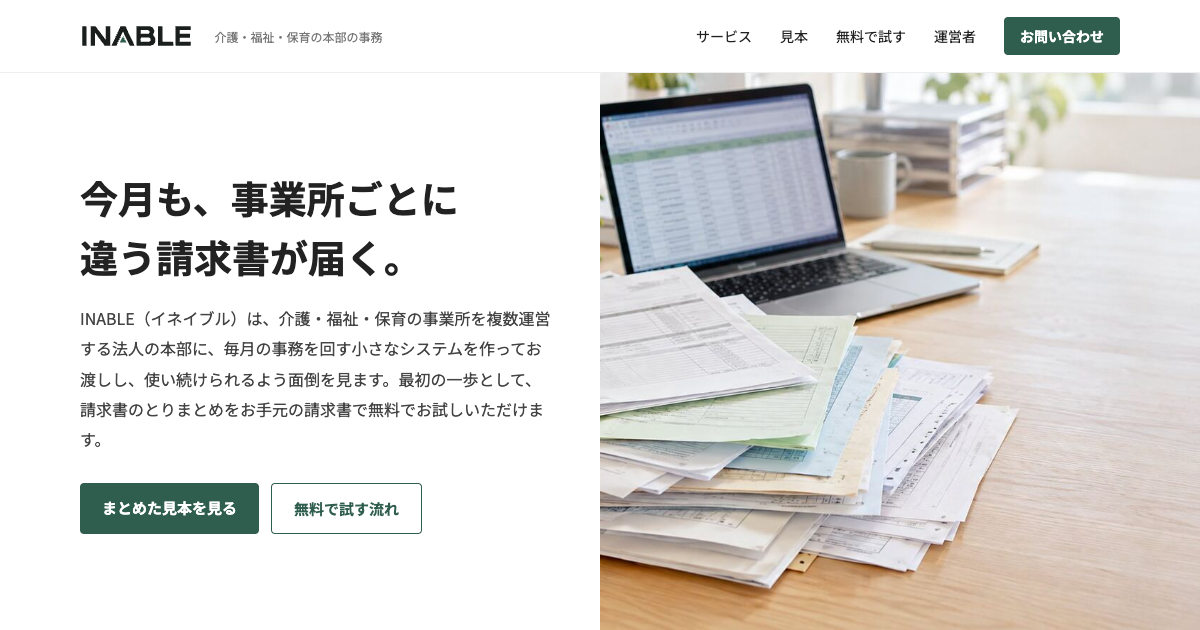
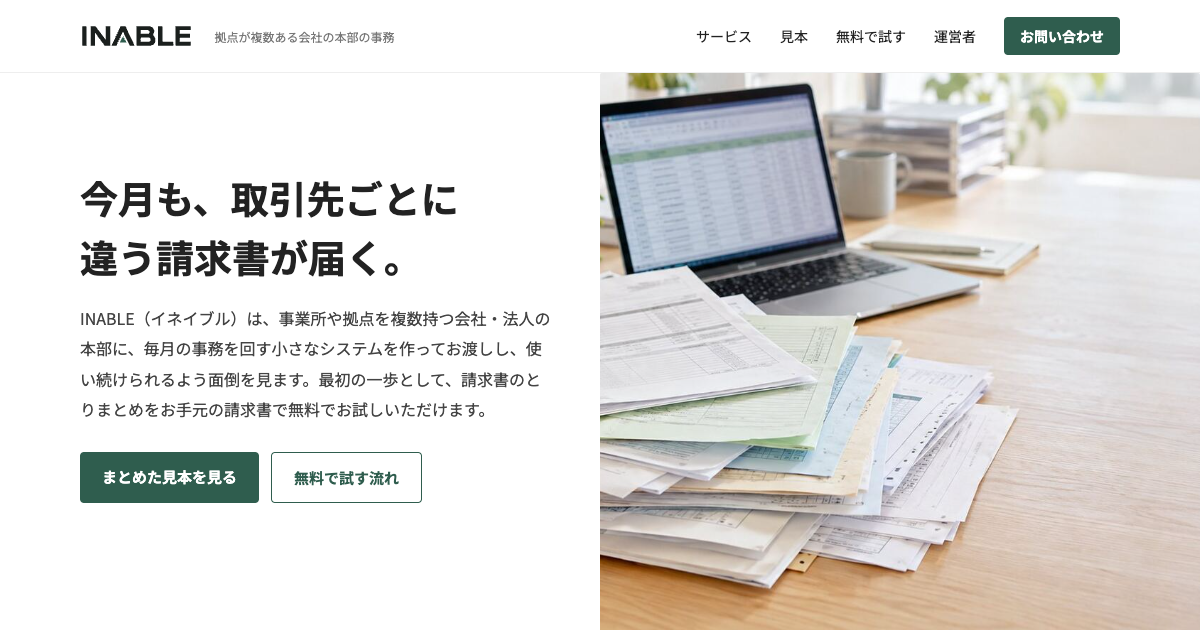
INABLE サイトを更新（x-inajiro business/inable/site から生成）

diff --git a/index.html b/index.html
@@ -1,16 +1,16 @@
 <!doctype html>
 <html lang="ja"><head><meta charset="utf-8"><meta name="viewport" content="width=device-width,initial-scale=1">
-<title>INABLE（イネイブル）｜介護・福祉・保育の本部の事務を、回るかたちに</title><link rel="icon" href="assets/logo/mark.svg"><meta name="description" content="介護・福祉・保育の事業所を複数運営する法人の本部に、毎月の事務を回す小さなシステムを作ってお渡しし、使い続けられるよう面倒を見ます。最初の一歩は、請求書のとりまとめの無料のお試しから。">
-<meta property="og:type" content="website"><meta property="og:title" content="INABLE（イネイブル）｜介護・福祉・保育の本部の事務を、回るかたちに"><meta property="og:description" content="介護・福祉・保育の事業所を複数運営する法人の本部に、毎月の事務を回す小さなシステムを作ってお渡しし、使い続けられるよう面倒を見ます。最初の一歩は、請求書のとりまとめの無料のお試しから。">
+<title>INABLE（イネイブル）｜拠点が複数ある会社の本部の事務を、回るかたちに</title><link rel="icon" href="assets/logo/mark.svg"><meta name="description" content="事業所や拠点を複数持つ会社・法人の本部に、毎月の事務を回す小さなシステムを作ってお渡しし、使い続けられるよう面倒を見ます。最初の一歩は、請求書のとりまとめの無料のお試しから。">
+<meta property="og:type" content="website"><meta property="og:title" content="INABLE（イネイブル）｜拠点が複数ある会社の本部の事務を、回るかたちに"><meta property="og:description" content="事業所や拠点を複数持つ会社・法人の本部に、毎月の事務を回す小さなシステムを作ってお渡しし、使い続けられるよう面倒を見ます。最初の一歩は、請求書のとりまとめの無料のお試しから。">
 <meta property="og:image" content="https://iineineno03k.github.io/inable/assets/og.png"><meta property="og:url" content="https://iineineno03k.github.io/inable/"><meta name="twitter:card" content="summary_large_image">
 <link rel="preconnect" href="https://fonts.googleapis.com"><link rel="preconnect" href="https://fonts.gstatic.com" crossorigin>
 <link href="https://fonts.googleapis.com/css2?family=Noto+Sans+JP:wght@400;700&display=swap" rel="stylesheet">
 <link rel="stylesheet" href="style.css"></head><body>
-<header><div class="wrap"><a class="logo" href="./"><img src="assets/logo/logo.svg" alt="INABLE" height="24"><small>介護・福祉・保育の本部の事務</small></a>
+<header><div class="wrap"><a class="logo" href="./"><img src="assets/logo/logo.svg" alt="INABLE" height="24"><small>拠点が複数ある会社の本部の事務</small></a>
 <nav><a href="service.html">サービス</a><a href="sample.html">見本</a><a href="trial.html">無料で試す</a><a href="about.html">運営者</a><a class="cta-btn" href="contact.html">お問い合わせ</a></nav></div></header>
 <section class="hero">
- <div class="copy"><div class="voice">今月も、事業所ごとに<br>違う請求書が届く。</div>
-  <div class="sub">INABLE（イネイブル）は、介護・福祉・保育の事業所を複数運営する法人の本部に、毎月の事務を回す小さなシステムを作ってお渡しし、使い続けられるよう面倒を見ます。最初の一歩として、請求書のとりまとめをお手元の請求書で無料でお試しいただけます。</div>
+ <div class="copy"><div class="voice">今月も、取引先ごとに<br>違う請求書が届く。</div>
+  <div class="sub">INABLE（イネイブル）は、事業所や拠点を複数持つ会社・法人の本部に、毎月の事務を回す小さなシステムを作ってお渡しし、使い続けられるよう面倒を見ます。最初の一歩として、請求書のとりまとめをお手元の請求書で無料でお試しいただけます。</div>
   <div class="btns"><a class="btn" href="sample.html">まとめた見本を見る</a><a class="btn ghost" href="trial.html">無料で試す流れ</a></div></div>
  <div class="img" style="background-image:url(assets/generated/hero-desk-v1.jpg)"></div>
 </section>
@@ -42,16 +42,16 @@
   <div class="step"><h3 class="h3">2. まとめる</h3><div class="p">お預かりした請求書を、上の見本と同じExcelにまとめます。</div></div>
   <div class="step"><h3 class="h3">3. 結果をお見せする</h3><div class="p">正しくまとまったところと、確認が必要になった理由をご報告します。続けるかどうかは、それを見てから決めてください。</div></div>
  </div>
- <p class="cost">お試しに費用はかかりません。続ける場合の費用は、内容をうかがってお見積りし、ご了承いただくまで発生しません。</p><p class="p" style="margin-top:8px">受け渡しの方法・保管・削除のタイミングは、先に法人さまの決まりをうかがい、対応できる方法で合意してからお預かりします。秘密保持の取り決めが必要でしたら、内容を確認したうえで、お預かりする前に結びます。お願いするのは、お預かりの前に受け渡しの方法と削除の時期を一緒に決めていただくことと、請求書の送付、結果の確認です。</p><p class="small">紙をスキャンした請求書は、別にご相談ください。</p>
+ <p class="cost">お試しに費用はかかりません。続ける場合の費用は、内容をうかがってお見積りし、ご了承いただくまで発生しません。</p><p class="p" style="margin-top:8px">受け渡しの方法・保管・削除のタイミングは、先に社内の決まりをうかがい、対応できる方法で合意してからお預かりします。秘密保持の取り決めが必要でしたら、内容を確認したうえで、お預かりする前に結びます。お願いするのは、お預かりの前に受け渡しの方法と削除の時期を一緒に決めていただくことと、請求書の送付、結果の確認です。</p><p class="small">紙をスキャンした請求書は、別にご相談ください。</p>
 </section>
 <section class="tint"><div class="wrap sec">
  <h2 class="h2">INABLEとのお付き合い</h2>
  <div class="grid3">
   <div class="step"><h3 class="h3">1. 無料で試す</h3><div class="p">請求書のとりまとめなど、1つの作業をお手元の書類で試し、結果をお見せします。</div></div>
-  <div class="step"><h3 class="h3">2. 本部に合わせて作る</h3><div class="p">続ける場合は、法人さまの決まりや流れに合わせて、毎月使えるかたちに仕上げます。お見積りにご了承いただいてから始めます。</div></div>
+  <div class="step"><h3 class="h3">2. 本部に合わせて作る</h3><div class="p">続ける場合は、社内の決まりや流れに合わせて、毎月使えるかたちに仕上げます。お見積りにご了承いただいてから始めます。</div></div>
   <div class="step"><h3 class="h3">3. 使い続けられるよう見守る</h3><div class="p">書式が変わった、事業所が増えた、といったときの手直しも、必要に応じて月々の形でご提案します。</div></div>
  </div>
- <p class="small" style="margin-top:20px">お相手の目安：事業所が3〜20か所ほどで、社内にシステムの担当がいない法人。</p>
+ <p class="small" style="margin-top:20px">お相手の目安：事業所・拠点が3〜20か所ほどで、社内にシステムの担当がいない会社・法人。介護や保育の事業所、工場や営業所、店舗や支店など、業種は問いません。</p>
 </div></section>
 <section class="wrap sec grid2" style="grid-template-columns:minmax(0,360px) minmax(0,1fr)">
  <img class="portrait-img" src="assets/portrait.jpg" alt="稲田 裕次郎">
@@ -62,7 +62,7 @@
 <section class="endcta"><div class="wrap"><h2>本部の事務のこと、お気軽にご相談ください</h2>
 <p>見本についてのご質問だけでも構いません。上長の方へは、このページのURLをそのままお送りください。</p>
 <div class="btns center"><a class="btn" href="https://docs.google.com/forms/d/e/1FAIpQLSfqlaHdNqRFhAeLvqePx_TkyAJFKcp7_Hvy0_Dt4lpC_d6Yyw/viewform" target="_blank" rel="noopener">フォームで問い合わせる</a><a class="btn ghost light" href="sample.html">見本を見る</a></div></div></section>
-<footer><div class="wrap"><div><a class="logo" href="./"><img src="assets/logo/logo-white.svg" alt="INABLE" height="22"></a><p>介護・福祉・保育の事業所を複数運営する法人の本部に、毎月の事務を回す小さなシステムを作ってお渡しし、使い続けられるよう面倒を見ます。</p></div>
+<footer><div class="wrap"><div><a class="logo" href="./"><img src="assets/logo/logo-white.svg" alt="INABLE" height="22"></a><p>事業所や拠点を複数持つ会社・法人の本部に、毎月の事務を回す小さなシステムを作ってお渡しし、使い続けられるよう面倒を見ます。</p></div>
 <nav><a href="service.html">サービス</a><a href="sample.html">見本</a><a href="trial.html">無料で試す</a><a href="about.html">運営者</a><a href="contact.html">お問い合わせ</a></nav></div>
 <div class="wrap copy">© INABLE　inajiro1717inada@gmail.com</div></footer>
 

diff --git a/trial.html b/trial.html
@@ -1,12 +1,12 @@
 <!doctype html>
 <html lang="ja"><head><meta charset="utf-8"><meta name="viewport" content="width=device-width,initial-scale=1">
-<title>無料で試す｜INABLE（イネイブル）</title><link rel="icon" href="assets/logo/mark.svg"><meta name="description" content="御社の請求書20枚までで、どこまで正しくまとまるかを無料でお見せします。費用はお見積りにご了承いただくまで発生しません。">
-<meta property="og:type" content="website"><meta property="og:title" content="無料で試す｜INABLE（イネイブル）"><meta property="og:description" content="御社の請求書20枚までで、どこまで正しくまとまるかを無料でお見せします。費用はお見積りにご了承いただくまで発生しません。">
+<title>無料で試す｜INABLE（イネイブル）</title><link rel="icon" href="assets/logo/mark.svg"><meta name="description" content="お手元の請求書20枚までで、どこまで正しくまとまるかを無料でお見せします。費用はお見積りにご了承いただくまで発生しません。">
+<meta property="og:type" content="website"><meta property="og:title" content="無料で試す｜INABLE（イネイブル）"><meta property="og:description" content="お手元の請求書20枚までで、どこまで正しくまとまるかを無料でお見せします。費用はお見積りにご了承いただくまで発生しません。">
 <meta property="og:image" content="https://iineineno03k.github.io/inable/assets/og.png"><meta property="og:url" content="https://iineineno03k.github.io/inable/trial.html"><meta name="twitter:card" content="summary_large_image">
 <link rel="preconnect" href="https://fonts.googleapis.com"><link rel="preconnect" href="https://fonts.gstatic.com" crossorigin>
 <link href="https://fonts.googleapis.com/css2?family=Noto+Sans+JP:wght@400;700&display=swap" rel="stylesheet">
 <link rel="stylesheet" href="style.css"></head><body>
-<header><div class="wrap"><a class="logo" href="./"><img src="assets/logo/logo.svg" alt="INABLE" height="24"><small>介護・福祉・保育の本部の事務</small></a>
+<header><div class="wrap"><a class="logo" href="./"><img src="assets/logo/logo.svg" alt="INABLE" height="24"><small>拠点が複数ある会社の本部の事務</small></a>
 <nav><a href="service.html">サービス</a><a href="sample.html">見本</a><a href="trial.html">無料で試す</a><a href="about.html">運営者</a><a class="cta-btn" href="contact.html">お問い合わせ</a></nav></div></header>
 <section class="pagehead"><div class="wrap"><div class="crumb">トップ › 無料で試す</div><h1>まずは、お手元の請求書で無料で試せます</h1>
 <p>実際に届いている請求書で、どこまで正しくまとまるかをお見せします。続けるかどうかは、結果をご覧になってから決めてください。</p></div></section>
@@ -21,7 +21,7 @@
 </div></section>
 <section class="wrap sec grid2">
  <div><h2 class="h2">請求書のお預かりについて</h2>
-  <div class="p">受け渡しの方法・保管・削除のタイミングは、先に法人さまの決まりをうかがい、対応できる方法で合意してからお預かりします。合わない場合はお預かりしません。秘密保持の取り決めが必要でしたら、内容を確認したうえで、お預かりする前に結びます。</div></div>
+  <div class="p">受け渡しの方法・保管・削除のタイミングは、先に社内の決まりをうかがい、対応できる方法で合意してからお預かりします。合わない場合はお預かりしません。秘密保持の取り決めが必要でしたら、内容を確認したうえで、お預かりする前に結びます。</div></div>
  <div class="img" style="min-height:280px;background-image:url(assets/generated/step-handover-v1.jpg)"></div>
 </section>
 <section class="wrap sec" style="padding-top:0">
@@ -35,7 +35,7 @@
 <section class="endcta"><div class="wrap"><h2>本部の事務のこと、お気軽にご相談ください</h2>
 <p>見本についてのご質問だけでも構いません。上長の方へは、このページのURLをそのままお送りください。</p>
 <div class="btns center"><a class="btn" href="https://docs.google.com/forms/d/e/1FAIpQLSfqlaHdNqRFhAeLvqePx_TkyAJFKcp7_Hvy0_Dt4lpC_d6Yyw/viewform" target="_blank" rel="noopener">フォームで問い合わせる</a><a class="btn ghost light" href="sample.html">見本を見る</a></div></div></section>
-<footer><div class="wrap"><div><a class="logo" href="./"><img src="assets/logo/logo-white.svg" alt="INABLE" height="22"></a><p>介護・福祉・保育の事業所を複数運営する法人の本部に、毎月の事務を回す小さなシステムを作ってお渡しし、使い続けられるよう面倒を見ます。</p></div>
+<footer><div class="wrap"><div><a class="logo" href="./"><img src="assets/logo/logo-white.svg" alt="INABLE" height="22"></a><p>事業所や拠点を複数持つ会社・法人の本部に、毎月の事務を回す小さなシステムを作ってお渡しし、使い続けられるよう面倒を見ます。</p></div>
 <nav><a href="service.html">サービス</a><a href="sample.html">見本</a><a href="trial.html">無料で試す</a><a href="about.html">運営者</a><a href="contact.html">お問い合わせ</a></nav></div>
 <div class="wrap copy">© INABLE　inajiro1717inada@gmail.com</div></footer>
 

diff --git a/service.html b/service.html
@@ -6,12 +6,12 @@
 <link rel="preconnect" href="https://fonts.googleapis.com"><link rel="preconnect" href="https://fonts.gstatic.com" crossorigin>
 <link href="https://fonts.googleapis.com/css2?family=Noto+Sans+JP:wght@400;700&display=swap" rel="stylesheet">
 <link rel="stylesheet" href="style.css"></head><body>
-<header><div class="wrap"><a class="logo" href="./"><img src="assets/logo/logo.svg" alt="INABLE" height="24"><small>介護・福祉・保育の本部の事務</small></a>
+<header><div class="wrap"><a class="logo" href="./"><img src="assets/logo/logo.svg" alt="INABLE" height="24"><small>拠点が複数ある会社の本部の事務</small></a>
 <nav><a href="service.html">サービス</a><a href="sample.html">見本</a><a href="trial.html">無料で試す</a><a href="about.html">運営者</a><a class="cta-btn" href="contact.html">お問い合わせ</a></nav></div></header>
 <section class="pagehead"><div class="wrap"><div class="crumb">トップ › サービス</div><h1>本部の毎月の事務を、回るかたちに</h1>
-<p>介護・福祉・保育の事業所を複数運営する法人の本部で、毎月くり返している事務を、小さなシステムにしてお渡しします。お渡ししたあとも、使い続けられるよう面倒を見ます。</p></div></section>
+<p>事業所や拠点を複数持つ会社・法人の本部で、毎月くり返している事務を、小さなシステムにしてお渡しします。お渡ししたあとも、使い続けられるよう面倒を見ます。</p></div></section>
 <section class="wrap sec grid2" style="align-items:start">
- <div><h2 class="h2">お手伝いできる法人</h2><ul class="list"><li>事業所が3〜20か所ほど</li><li>各事業所から本部へ、書類や数字が毎月集まる</li><li>社内にシステムの担当がいない</li></ul></div>
+ <div><h2 class="h2">お手伝いできる会社・法人</h2><ul class="list"><li>事業所・拠点が3〜20か所ほど</li><li>各拠点から本部へ、書類や数字が毎月集まる</li><li>社内にシステムの担当がいない</li></ul><p class="small">たとえば、介護・保育の事業所、工場・営業所、建設・設備の支店、店舗を複数お持ちの会社・法人です。業種は問いません。</p></div>
  <div><h2 class="h2">ご相談できることの例</h2><ul class="list"><li>事業所ごとに届く請求書のとりまとめ（下でご紹介します）</li><li>各事業所から上がる報告や数字の集計</li><li>毎月同じ形で作っている一覧や資料づくり</li></ul><p class="small">まずはお話をうかがい、1つの作業を選んでお試しいただきます。</p></div>
 </section>
 <h2 class="band">最初の一歩：請求書のとりまとめ</h2>
@@ -43,7 +43,7 @@
 <section class="endcta"><div class="wrap"><h2>本部の事務のこと、お気軽にご相談ください</h2>
 <p>見本についてのご質問だけでも構いません。上長の方へは、このページのURLをそのままお送りください。</p>
 <div class="btns center"><a class="btn" href="https://docs.google.com/forms/d/e/1FAIpQLSfqlaHdNqRFhAeLvqePx_TkyAJFKcp7_Hvy0_Dt4lpC_d6Yyw/viewform" target="_blank" rel="noopener">フォームで問い合わせる</a><a class="btn ghost light" href="sample.html">見本を見る</a></div></div></section>
-<footer><div class="wrap"><div><a class="logo" href="./"><img src="assets/logo/logo-white.svg" alt="INABLE" height="22"></a><p>介護・福祉・保育の事業所を複数運営する法人の本部に、毎月の事務を回す小さなシステムを作ってお渡しし、使い続けられるよう面倒を見ます。</p></div>
+<footer><div class="wrap"><div><a class="logo" href="./"><img src="assets/logo/logo-white.svg" alt="INABLE" height="22"></a><p>事業所や拠点を複数持つ会社・法人の本部に、毎月の事務を回す小さなシステムを作ってお渡しし、使い続けられるよう面倒を見ます。</p></div>
 <nav><a href="service.html">サービス</a><a href="sample.html">見本</a><a href="trial.html">無料で試す</a><a href="about.html">運営者</a><a href="contact.html">お問い合わせ</a></nav></div>
 <div class="wrap copy">© INABLE　inajiro1717inada@gmail.com</div></footer>
 

diff --git a/contact.html b/contact.html
@@ -6,7 +6,7 @@
 <link rel="preconnect" href="https://fonts.googleapis.com"><link rel="preconnect" href="https://fonts.gstatic.com" crossorigin>
 <link href="https://fonts.googleapis.com/css2?family=Noto+Sans+JP:wght@400;700&display=swap" rel="stylesheet">
 <link rel="stylesheet" href="style.css"></head><body>
-<header><div class="wrap"><a class="logo" href="./"><img src="assets/logo/logo.svg" alt="INABLE" height="24"><small>介護・福祉・保育の本部の事務</small></a>
+<header><div class="wrap"><a class="logo" href="./"><img src="assets/logo/logo.svg" alt="INABLE" height="24"><small>拠点が複数ある会社の本部の事務</small></a>
 <nav><a href="service.html">サービス</a><a href="sample.html">見本</a><a href="trial.html">無料で試す</a><a href="about.html">運営者</a><a class="cta-btn" href="contact.html">お問い合わせ</a></nav></div></header>
 <section class="pagehead"><div class="wrap"><div class="crumb">トップ › お問い合わせ</div><h1>お問い合わせ</h1>
 <p>下のフォームからご連絡ください。1分ほどで送れます。見本についてのご質問だけでも構いません。</p></div></section>
@@ -17,12 +17,12 @@
  <div class="btns center"><button class="btn" onclick="const b=this;navigator.clipboard.writeText('inajiro1717inada@gmail.com').then(()=>{b.textContent='コピーしました'},()=>{b.textContent='コピーできませんでした。上のアドレスを選んでコピーしてください'})">アドレスをコピー</button></div>
 </section>
 <section class="tint"><div class="wrap sec grid2" style="align-items:start">
- <div><h2 class="h2">フォームでうかがうこと</h2><ul class="list"><li>ご用件（見本について／無料で試したい／話を聞いてみたい）</li><li>法人名・お名前・メールアドレス</li><li>事業所の数（わかれば）・ご質問</li></ul></div>
+ <div><h2 class="h2">フォームでうかがうこと</h2><ul class="list"><li>ご用件（見本について／無料で試したい／話を聞いてみたい）</li><li>会社名・法人名、お名前、メールアドレス</li><li>事業所・拠点の数（わかれば）・ご質問</li></ul></div>
  <div><h2 class="h2">お返事</h2><div class="p">内容を確認して、ご入力いただいたメールアドレスへお返事します。</div></div>
 </div></section>
 <section class="wrap sec"><div class="p" style="text-align:center">上長の方へ回していただく場合は、<a href="./" style="text-decoration:underline">トップページ</a>のURLをそのままお送りください。</div></section>
 
-<footer><div class="wrap"><div><a class="logo" href="./"><img src="assets/logo/logo-white.svg" alt="INABLE" height="22"></a><p>介護・福祉・保育の事業所を複数運営する法人の本部に、毎月の事務を回す小さなシステムを作ってお渡しし、使い続けられるよう面倒を見ます。</p></div>
+<footer><div class="wrap"><div><a class="logo" href="./"><img src="assets/logo/logo-white.svg" alt="INABLE" height="22"></a><p>事業所や拠点を複数持つ会社・法人の本部に、毎月の事務を回す小さなシステムを作ってお渡しし、使い続けられるよう面倒を見ます。</p></div>
 <nav><a href="service.html">サービス</a><a href="sample.html">見本</a><a href="trial.html">無料で試す</a><a href="about.html">運営者</a><a href="contact.html">お問い合わせ</a></nav></div>
 <div class="wrap copy">© INABLE　inajiro1717inada@gmail.com</div></footer>
 

diff --git a/about.html b/about.html
@@ -6,13 +6,13 @@
 <link rel="preconnect" href="https://fonts.googleapis.com"><link rel="preconnect" href="https://fonts.gstatic.com" crossorigin>
 <link href="https://fonts.googleapis.com/css2?family=Noto+Sans+JP:wght@400;700&display=swap" rel="stylesheet">
 <link rel="stylesheet" href="style.css"></head><body>
-<header><div class="wrap"><a class="logo" href="./"><img src="assets/logo/logo.svg" alt="INABLE" height="24"><small>介護・福祉・保育の本部の事務</small></a>
+<header><div class="wrap"><a class="logo" href="./"><img src="assets/logo/logo.svg" alt="INABLE" height="24"><small>拠点が複数ある会社の本部の事務</small></a>
 <nav><a href="service.html">サービス</a><a href="sample.html">見本</a><a href="trial.html">無料で試す</a><a href="about.html">運営者</a><a class="cta-btn" href="contact.html">お問い合わせ</a></nav></div></header>
 <section class="pagehead"><div class="wrap"><div class="crumb">トップ › 運営者</div><h1>運営者</h1></div></section>
 <section class="wrap sec grid2" style="grid-template-columns:minmax(0,360px) minmax(0,1fr)">
  <img class="portrait-img" src="assets/portrait.jpg" alt="稲田 裕次郎">
  <div><h2 class="h2">INABLEの稲田 裕次郎です</h2>
-  <div class="p">INABLEは、取引先ごとに書き方の違う請求書を毎月一覧へ書き写している法人の本部に向けて、その作業を1枚のExcelにまとめる形でお引き受けしています。窓口も作業も、稲田が担当します。</div></div>
+  <div class="p">INABLEは、取引先ごとに書き方の違う請求書を毎月一覧へ書き写している会社・法人の本部に向けて、その作業を1枚のExcelにまとめる形でお引き受けしています。窓口も作業も、稲田が担当します。</div></div>
 </section>
 <section class="tint"><div class="wrap sec grid2" style="align-items:start">
  <div><h2 class="h2">概要</h2>
@@ -25,7 +25,7 @@
 <section class="endcta"><div class="wrap"><h2>本部の事務のこと、お気軽にご相談ください</h2>
 <p>見本についてのご質問だけでも構いません。上長の方へは、このページのURLをそのままお送りください。</p>
 <div class="btns center"><a class="btn" href="https://docs.google.com/forms/d/e/1FAIpQLSfqlaHdNqRFhAeLvqePx_TkyAJFKcp7_Hvy0_Dt4lpC_d6Yyw/viewform" target="_blank" rel="noopener">フォームで問い合わせる</a><a class="btn ghost light" href="sample.html">見本を見る</a></div></div></section>
-<footer><div class="wrap"><div><a class="logo" href="./"><img src="assets/logo/logo-white.svg" alt="INABLE" height="22"></a><p>介護・福祉・保育の事業所を複数運営する法人の本部に、毎月の事務を回す小さなシステムを作ってお渡しし、使い続けられるよう面倒を見ます。</p></div>
+<footer><div class="wrap"><div><a class="logo" href="./"><img src="assets/logo/logo-white.svg" alt="INABLE" height="22"></a><p>事業所や拠点を複数持つ会社・法人の本部に、毎月の事務を回す小さなシステムを作ってお渡しし、使い続けられるよう面倒を見ます。</p></div>
 <nav><a href="service.html">サービス</a><a href="sample.html">見本</a><a href="trial.html">無料で試す</a><a href="about.html">運営者</a><a href="contact.html">お問い合わせ</a></nav></div>
 <div class="wrap copy">© INABLE　inajiro1717inada@gmail.com</div></footer>
 

diff --git a/sample.html b/sample.html
@@ -6,7 +6,7 @@
 <link rel="preconnect" href="https://fonts.googleapis.com"><link rel="preconnect" href="https://fonts.gstatic.com" crossorigin>
 <link href="https://fonts.googleapis.com/css2?family=Noto+Sans+JP:wght@400;700&display=swap" rel="stylesheet">
 <link rel="stylesheet" href="style.css"></head><body>
-<header><div class="wrap"><a class="logo" href="./"><img src="assets/logo/logo.svg" alt="INABLE" height="24"><small>介護・福祉・保育の本部の事務</small></a>
+<header><div class="wrap"><a class="logo" href="./"><img src="assets/logo/logo.svg" alt="INABLE" height="24"><small>拠点が複数ある会社の本部の事務</small></a>
 <nav><a href="service.html">サービス</a><a href="sample.html">見本</a><a href="trial.html">無料で試す</a><a href="about.html">運営者</a><a class="cta-btn" href="contact.html">お問い合わせ</a></nav></div></header>
 <section class="pagehead"><div class="wrap"><div class="crumb">トップ › 見本</div><h1>見本：書き方の違う請求書4枚を、1枚のExcelに</h1>
 <p>架空の会社・金額で作った見本です。この4枚を実際に読み取った結果を、そのまま載せています。</p></div></section>
@@ -38,7 +38,7 @@
 <section class="endcta"><div class="wrap"><h2>本部の事務のこと、お気軽にご相談ください</h2>
 <p>見本についてのご質問だけでも構いません。上長の方へは、このページのURLをそのままお送りください。</p>
 <div class="btns center"><a class="btn" href="https://docs.google.com/forms/d/e/1FAIpQLSfqlaHdNqRFhAeLvqePx_TkyAJFKcp7_Hvy0_Dt4lpC_d6Yyw/viewform" target="_blank" rel="noopener">フォームで問い合わせる</a><a class="btn ghost light" href="sample.html">見本を見る</a></div></div></section>
-<footer><div class="wrap"><div><a class="logo" href="./"><img src="assets/logo/logo-white.svg" alt="INABLE" height="22"></a><p>介護・福祉・保育の事業所を複数運営する法人の本部に、毎月の事務を回す小さなシステムを作ってお渡しし、使い続けられるよう面倒を見ます。</p></div>
+<footer><div class="wrap"><div><a class="logo" href="./"><img src="assets/logo/logo-white.svg" alt="INABLE" height="22"></a><p>事業所や拠点を複数持つ会社・法人の本部に、毎月の事務を回す小さなシステムを作ってお渡しし、使い続けられるよう面倒を見ます。</p></div>
 <nav><a href="service.html">サービス</a><a href="sample.html">見本</a><a href="trial.html">無料で試す</a><a href="about.html">運営者</a><a href="contact.html">お問い合わせ</a></nav></div>
 <div class="wrap copy">© INABLE　inajiro1717inada@gmail.com</div></footer>
 
